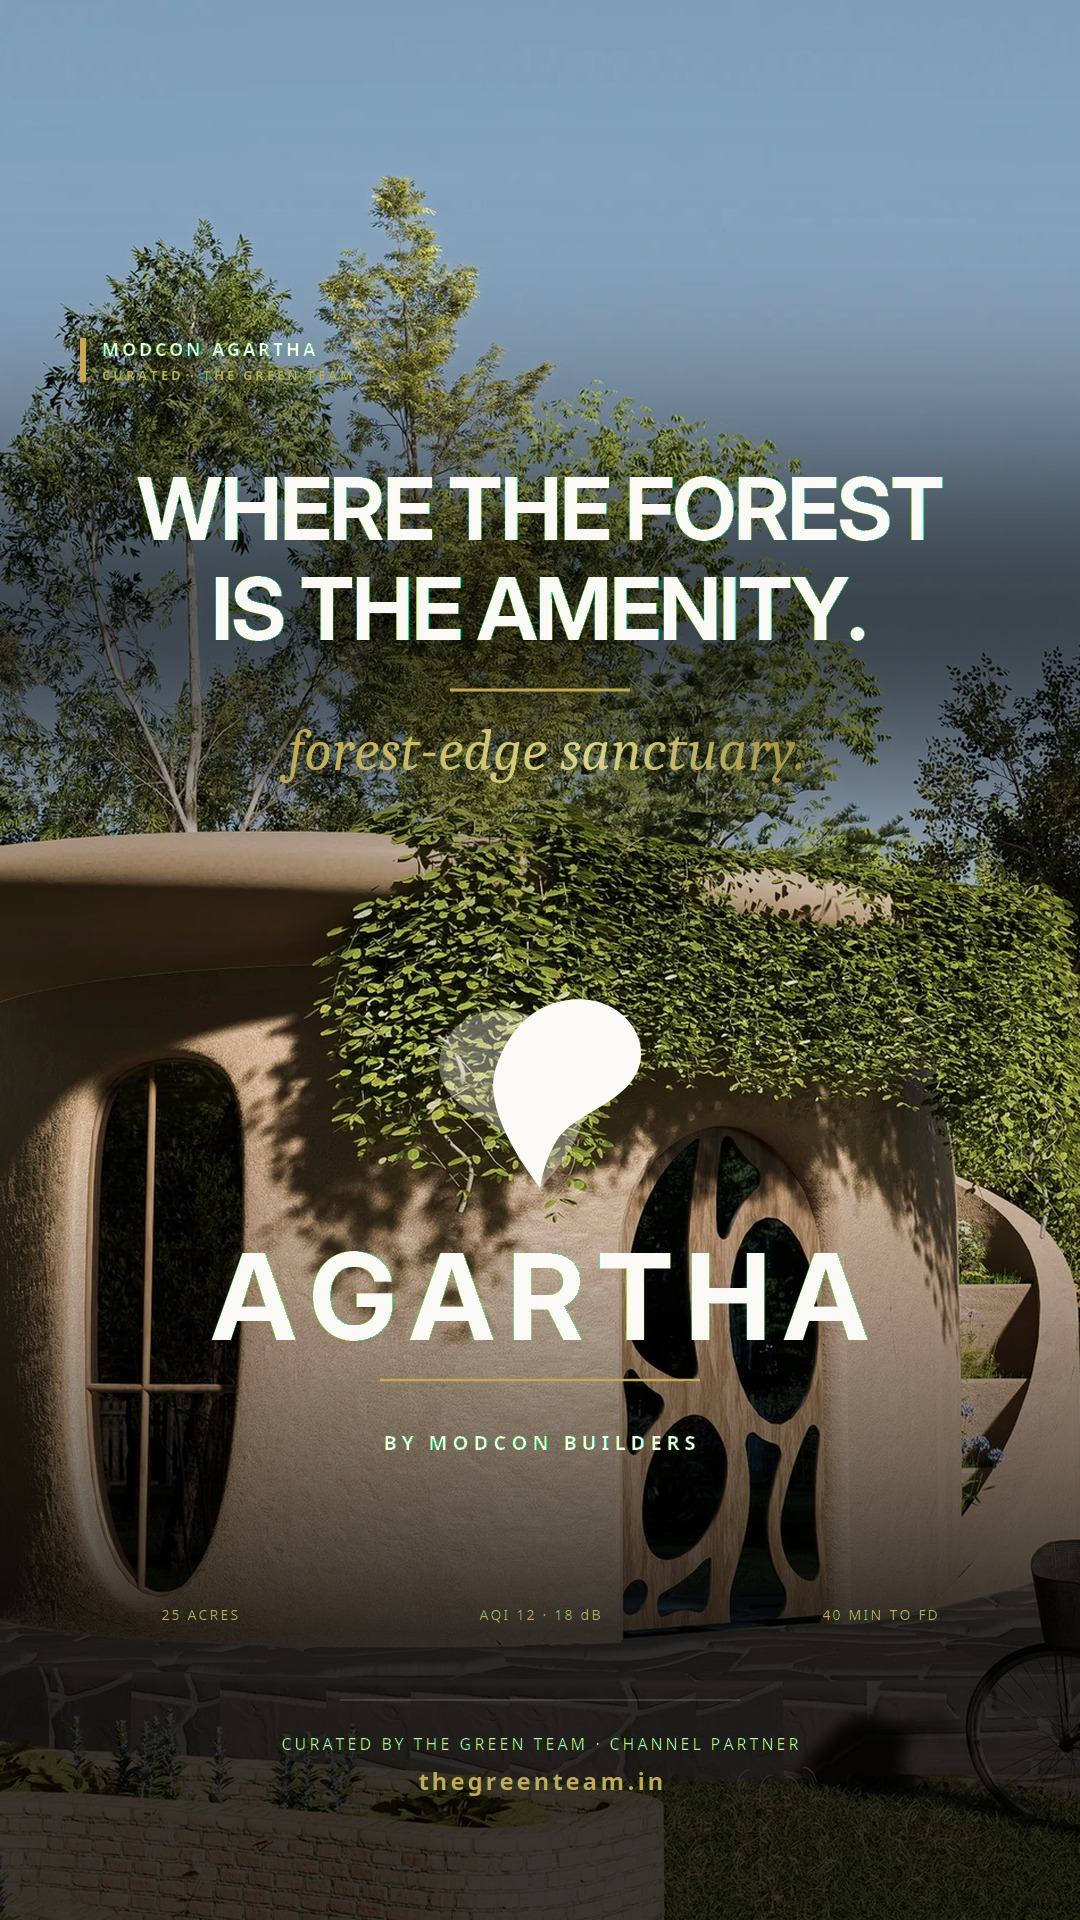
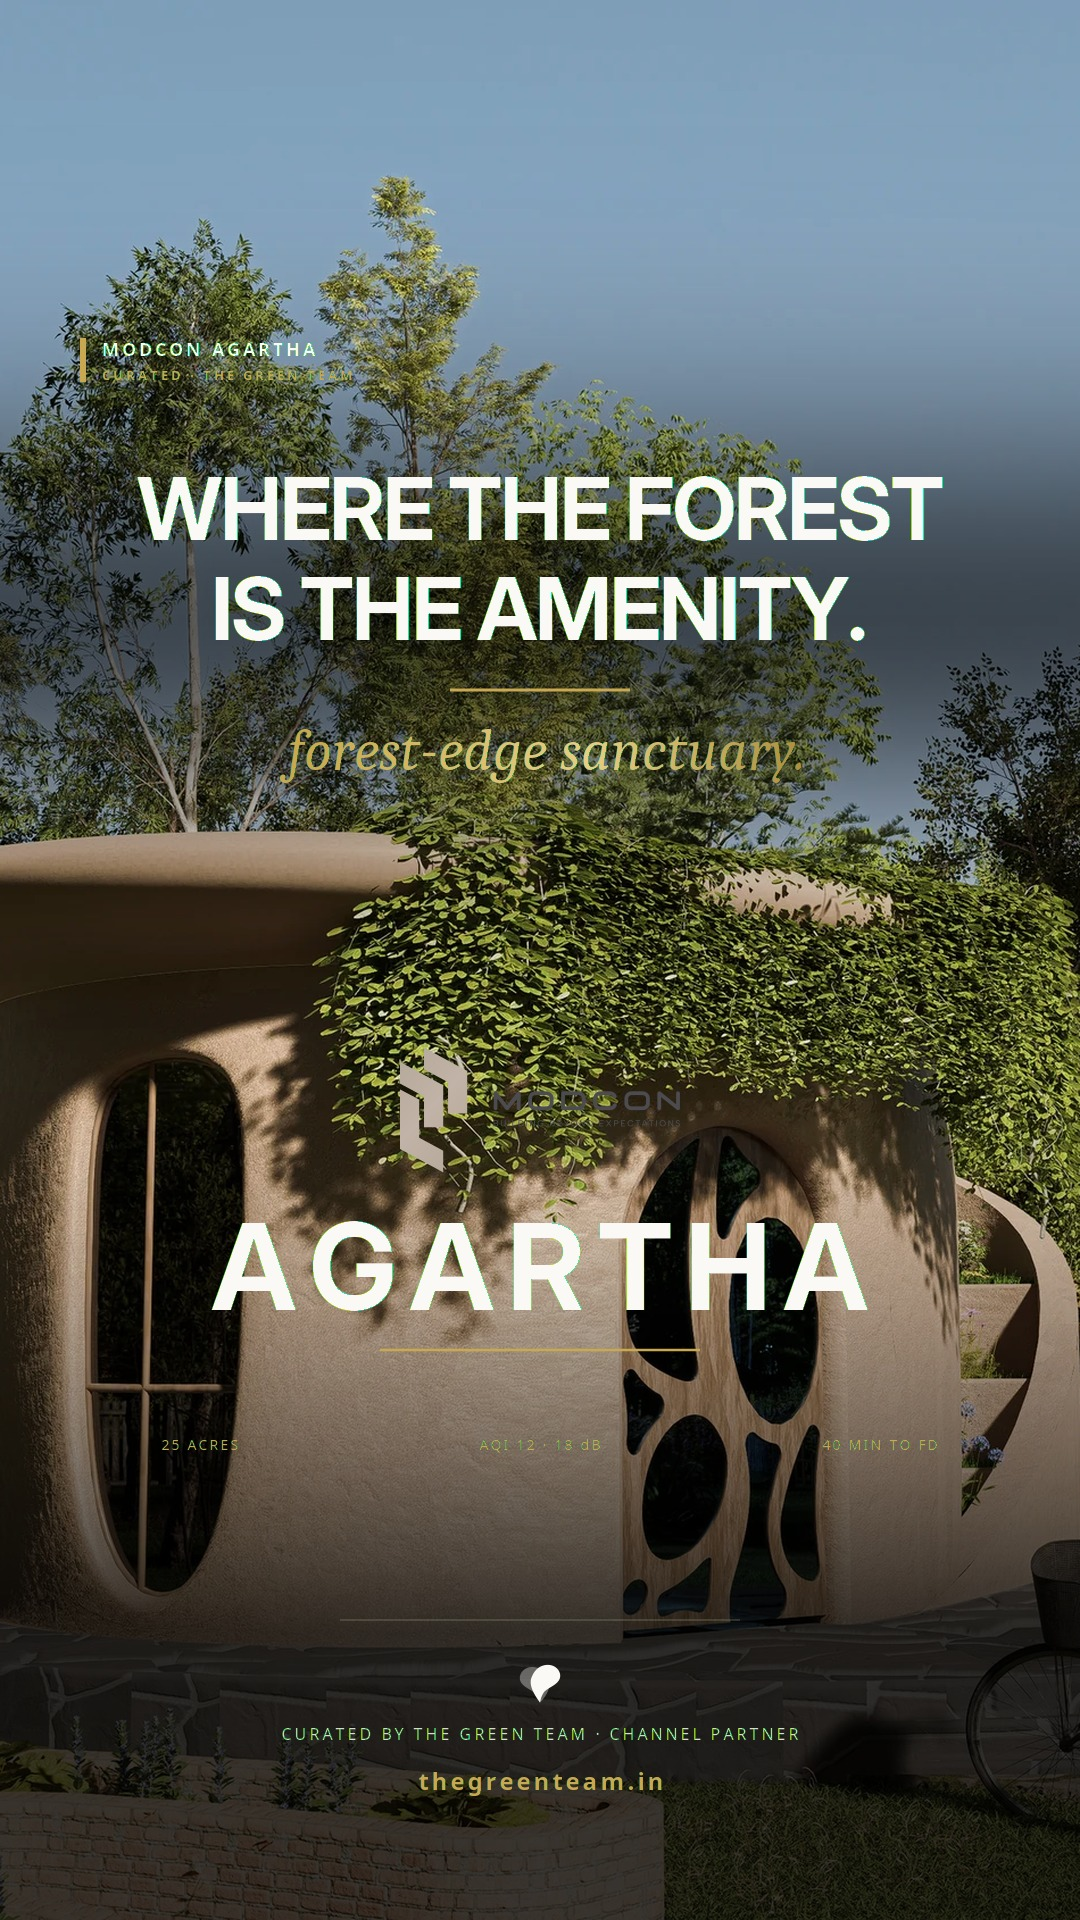
agartha-reel: MODCON wordmark replaces Green Team leaf as hero brand mark
CEO feedback: 'Agartha is by MODCON BUILDERS, The Green Team is just
channel partner -- you putting green team logo for Agartha why?'

Fixed brand hierarchy:
  Brand reveal hero  : MODCON SVG wordmark (the actual developer's mark)
  Property name      : AGARTHA (140pt)
  Tagline            : italic gold 'forest-edge sanctuary.'
  Bottom signature   : small Green Team leaf + 'CURATED BY THE GREEN TEAM
                       . CHANNEL PARTNER' + thegreenteam.in

The Green Team's leaf no longer sits ABOVE the AGARTHA wordmark (which
made it read as Agartha's own logo). It's now sized and positioned as
a channel-partner attribution mark in the signature.

Also: 1.4x slowdown applied at the ffmpeg encode step via
setpts=1.4*PTS + atempo=0.7143. Output duration extends from 22.0s
to 30.8s, giving viewers time to read the typography.

diff --git a/brand-kit/video/build_gt_agartha_reel.py b/brand-kit/video/build_gt_agartha_reel.py
@@ -52,6 +52,39 @@ from build_gt_thumb_v41 import (
     REPO,
 )
 
+
+# ─── MODCON LOGO (developer brand mark) ─────────────────────────────────
+# Load the official MODCON SVG once and stash the inner content for inline
+# embedding in our composition.
+def _load_modcon_inner() -> str:
+    """Return everything inside the <svg ...> wrapper of modcon-logo.svg."""
+    raw = (REPO / "public" / "logos" / "modcon-logo.svg").read_text()
+    # Strip the <?xml ?> and the outer <svg ...> ... </svg> tags so we
+    # can drop the inner content into our composite SVG.
+    start = raw.index(">", raw.index("<svg")) + 1
+    end = raw.rindex("</svg>")
+    return raw[start:end]
+
+
+MODCON_VIEWBOX_W = 646.65
+MODCON_VIEWBOX_H = 288.10
+MODCON_INNER = _load_modcon_inner()
+
+
+def modcon_logo_svg(cx: int, cy: int, target_w: int, opacity: float = 1.0) -> str:
+    """Render the MODCON wordmark logo centered at (cx, cy), scaled so its
+    width equals target_w. Uses the official SVG content."""
+    if opacity <= 0.001:
+        return ""
+    scale = target_w / MODCON_VIEWBOX_W
+    target_h = MODCON_VIEWBOX_H * scale
+    tx = cx - target_w / 2
+    ty = cy - target_h / 2
+    return (
+        f'<g transform="translate({tx:.2f},{ty:.2f}) scale({scale:.5f})" '
+        f'opacity="{opacity:.3f}">{MODCON_INNER}</g>'
+    )
+
 # V42b technique — borrow the diagonal wipe + light leak helpers
 import build_gt_thumb_v42b as v42b
 
@@ -275,8 +308,13 @@ def phase4_specs_strobe(t, dust, photos):
 
 
 def phase5_brand_reveal_agartha(t, dust, photos):
-    """Phase 5 — leaf draws in, then 'AGARTHA' big + 'by THE GREEN TEAM'
-    smaller + 'forest-edge sanctuary.' italic gold."""
+    """Phase 5 — MODCON wordmark fades in (developer's official brand mark),
+    then 'AGARTHA' typewriter reveal, then italic gold 'forest-edge sanctuary.'.
+
+    No Green Team leaf here. AGARTHA is built by MODCON, so the developer's
+    actual wordmark sits above the property name. The Green Team leaf
+    appears later in the close as a small channel-partner attribution mark.
+    """
     u = norm(t, P4_END, P5_END)
     fade_out = ease_in_out(clamp(u / 0.30))
     im_photo = photos["aerial"].ken_burns(
@@ -289,53 +327,41 @@ def phase5_brand_reveal_agartha(t, dust, photos):
     if fade_out > 0.98:
         im = ink
 
-    draw_p = clamp((u - 0.00) / 0.55)
-    fill_p = clamp((u - 0.40) / 0.45)
-    leaf_size = 320
-    leaf_cy = 750
+    # MODCON logo fades in across u 0.05 → 0.45
+    modcon_opacity = ease_out_cubic(clamp((u - 0.05) / 0.40))
 
-    # AGARTHA wordmark (big property name) types in after leaf fill starts
-    pname_progress = ease_out_cubic(clamp((u - 0.50) / 0.25))
+    # AGARTHA wordmark types in after MODCON settles
+    pname_progress = ease_out_cubic(clamp((u - 0.45) / 0.25))
     pname_visible_n = int(round(pname_progress * len(PROPERTY_NAME)))
     pname_shown = PROPERTY_NAME[:pname_visible_n]
 
-    # "by THE GREEN TEAM" subline reveals after property name
-    sub_progress = ease_out_cubic(clamp((u - 0.68) / 0.18))
+    rule_w = clamp((u - 0.62) / 0.18) * 320
 
     # "forest-edge sanctuary." italic gold tagline last
-    tag_progress = ease_out_cubic(clamp((u - 0.80) / 0.18))
-
-    rule_w = clamp((u - 0.62) / 0.18) * 320
+    tag_progress = ease_out_cubic(clamp((u - 0.75) / 0.20))
 
     parts = [
         v41.DEFS,
         f'<rect width="{W}" height="{H}" fill="url(#vig)"/>',
-        leaf_logo_svg(CX, leaf_cy, leaf_size, draw_p, fill_p),
-        # AGARTHA — big editorial display
-        f'<text x="{CX}" y="1090" font-family="{FONT_DISPLAY}" font-size="140" '
+        # MODCON developer wordmark (renders the official SVG content)
+        modcon_logo_svg(CX, 800, 340, opacity=modcon_opacity),
+        # AGARTHA — big editorial display under MODCON
+        f'<text x="{CX}" y="1100" font-family="{FONT_DISPLAY}" font-size="140" '
         f'fill="{PAPER}" font-weight="800" letter-spacing="14" '
         f'text-anchor="middle">{pname_shown}</text>',
         # Gold rule under AGARTHA
-        f'<line x1="{CX - rule_w/2:.0f}" y1="1130" '
-        f'x2="{CX + rule_w/2:.0f}" y2="1130" stroke="{GT_GOLD}" '
+        f'<line x1="{CX - rule_w/2:.0f}" y1="1140" '
+        f'x2="{CX + rule_w/2:.0f}" y2="1140" stroke="{GT_GOLD}" '
         f'stroke-width="2.5"/>',
     ]
-    if sub_progress > 0.001:
-        parts.append(
-            f'<g transform="translate({CX},1200)" opacity="{sub_progress:.3f}">'
-            f'<text x="0" y="0" font-family="{FONT_MONO}" font-size="22" '
-            f'fill="{PAPER}" letter-spacing="6" font-weight="600" '
-            f'text-anchor="middle">{DEVELOPER_LINE}</text>'
-            f'</g>'
-        )
     if tag_progress > 0.001:
         clip_w = tag_progress * 700
         parts.append(
             f'<defs><clipPath id="agtag">'
-            f'<rect x="{CX-350:.0f}" y="1260" width="{clip_w:.0f}" height="100"/>'
+            f'<rect x="{CX-350:.0f}" y="1220" width="{clip_w:.0f}" height="100"/>'
             f'</clipPath></defs>'
             f'<g clip-path="url(#agtag)">'
-            f'<text x="{CX}" y="1340" font-family="{FONT_SERIF}" '
+            f'<text x="{CX}" y="1300" font-family="{FONT_SERIF}" '
             f'font-size="68" font-style="italic" '
             f'fill="url(#goldHL)" font-weight="400" '
             f'text-anchor="middle">{TAGLINE_MAIN}</text>'
@@ -378,21 +404,20 @@ def phase6_cta_close(t, dust, photos):
 
     overlay = (
         final_defs
-        + leaf_logo_svg(CX, 750, 320, 1.0, 1.0)
-        + f'<text x="{CX}" y="1090" font-family="{FONT_DISPLAY}" font-size="140" '
+        # MODCON developer wordmark (hero brand mark — held from P5)
+        + modcon_logo_svg(CX, 800, 340, opacity=1.0)
+        # AGARTHA — big editorial display
+        + f'<text x="{CX}" y="1100" font-family="{FONT_DISPLAY}" font-size="140" '
         f'fill="{PAPER}" font-weight="800" letter-spacing="14" '
         f'text-anchor="middle">{PROPERTY_NAME}</text>'
-        + f'<line x1="{CX - 160}" y1="1130" x2="{CX + 160}" y2="1130" '
+        + f'<line x1="{CX - 160}" y1="1140" x2="{CX + 160}" y2="1140" '
         f'stroke="{GT_GOLD}" stroke-width="2.5"/>'
-        + f'<text x="{CX}" y="1200" font-family="{FONT_MONO}" font-size="22" '
-        f'fill="{PAPER}" letter-spacing="6" font-weight="600" '
-        f'text-anchor="middle">{DEVELOPER_LINE}</text>'
-        + f'<text x="{CX}" y="1340" font-family="{FONT_SERIF}" '
+        + f'<text x="{CX}" y="1300" font-family="{FONT_SERIF}" '
         f'font-size="68" font-style="italic" '
         f'fill="url(#goldHL)" font-weight="400" '
         f'text-anchor="middle">{TAGLINE_MAIN}</text>'
         # CTA block — two lines
-        + f'<g transform="translate({CX},1450)" opacity="{cta_progress:.3f}">'
+        + f'<g transform="translate({CX},1430)" opacity="{cta_progress:.3f}">'
         + f'<line x1="-200" y1="-50" x2="200" y2="-50" '
         f'stroke="{GT_SAGE}" stroke-width="1" opacity="0.45"/>'
         + f'<text x="0" y="0" font-family="{FONT_MONO}" font-size="22" '
@@ -402,12 +427,13 @@ def phase6_cta_close(t, dust, photos):
         f'fill="{PAPER}" letter-spacing="4" font-weight="600" '
         f'text-anchor="middle">{CTA_LINE_2}</text>'
         + '</g>'
-        # Channel partner attribution + URL
-        + f'<g transform="translate({CX},1610)" opacity="{sig_progress:.3f}">'
-        + f'<text x="0" y="0" font-family="{FONT_MONO}" font-size="15" '
+        # Channel partner attribution: small Green Team leaf + line + URL
+        + f'<g transform="translate({CX},1590)" opacity="{sig_progress:.3f}">'
+        + leaf_logo_svg(0, 0, 38, 1.0, 1.0)  # small Green Team leaf — channel partner mark
+        + f'<text x="0" y="60" font-family="{FONT_MONO}" font-size="15" '
         f'fill="{PAPER}" opacity="0.85" letter-spacing="3" '
         f'text-anchor="middle">{CHANNEL_PARTNER_LINE}</text>'
-        + f'<text x="0" y="32" font-family="{FONT_MONO}" font-size="22" '
+        + f'<text x="0" y="92" font-family="{FONT_MONO}" font-size="22" '
         f'fill="{GT_GOLD}" font-weight="700" letter-spacing="3" '
         f'text-anchor="middle">thegreenteam.in</text>'
         + '</g>'
@@ -507,19 +533,16 @@ def build_poster():
         f'<text x="{CX}" y="770" font-family="{FONT_SERIF}" font-size="58" '
         f'font-style="italic" fill="url(#gh)" font-weight="500" '
         f'text-anchor="middle">{TAGLINE_MAIN}</text>'
-        # Leaf (small)
-        + leaf_logo_svg(CX, 1100, 220, 1.0, 1.0)
+        # MODCON developer wordmark (the actual builder's mark)
+        + modcon_logo_svg(CX, 1110, 280, opacity=1.0)
         # AGARTHA wordmark big
-        + f'<text x="{CX}" y="1340" font-family="{FONT_DISPLAY}" font-size="120" '
+        + f'<text x="{CX}" y="1310" font-family="{FONT_DISPLAY}" font-size="120" '
         f'fill="{PAPER}" font-weight="800" letter-spacing="12" '
         f'text-anchor="middle">{PROPERTY_NAME}</text>'
-        + f'<line x1="{CX-160}" y1="1380" x2="{CX+160}" y2="1380" '
+        + f'<line x1="{CX-160}" y1="1350" x2="{CX+160}" y2="1350" '
         f'stroke="{GT_GOLD}" stroke-width="2.5"/>'
-        + f'<text x="{CX}" y="1450" font-family="{FONT_MONO}" font-size="20" '
-        f'fill="{PAPER}" letter-spacing="5" font-weight="600" '
-        f'text-anchor="middle">{DEVELOPER_LINE}</text>'
-        # Specs row at the bottom (Agartha facts)
-        + f'<g transform="translate(0,1620)">'
+        # Specs row (Agartha facts)
+        + f'<g transform="translate(0,1450)">'
         + f'<text x="200" y="0" font-family="{FONT_MONO}" font-size="14" '
         f'fill="{GT_GOLD}" letter-spacing="2" text-anchor="middle">25 ACRES</text>'
         + f'<text x="540" y="0" font-family="{FONT_MONO}" font-size="14" '
@@ -527,10 +550,11 @@ def build_poster():
         + f'<text x="880" y="0" font-family="{FONT_MONO}" font-size="14" '
         f'fill="{GT_GOLD}" letter-spacing="2" text-anchor="middle">40 MIN TO FD</text>'
         + '</g>'
-        # Signature: channel partner attribution + URL
-        + f'<line x1="{CX-200}" y1="1700" x2="{CX+200}" y2="1700" '
+        # Signature: small Green Team leaf + channel partner attribution + URL
+        + f'<line x1="{CX-200}" y1="1620" x2="{CX+200}" y2="1620" '
         f'stroke="{GT_SAGE}" stroke-width="1" opacity="0.45"/>'
-        + f'<text x="{CX}" y="1750" font-family="{FONT_MONO}" font-size="16" '
+        + leaf_logo_svg(CX, 1685, 44, 1.0, 1.0)
+        + f'<text x="{CX}" y="1740" font-family="{FONT_MONO}" font-size="16" '
         f'fill="{PAPER}" opacity="0.85" letter-spacing="3" '
         f'text-anchor="middle">{CHANNEL_PARTNER_LINE}</text>'
         + f'<text x="{CX}" y="1790" font-family="{FONT_MONO}" font-size="24" '
@@ -585,7 +609,14 @@ def main():
         target = FRAMES_DIR / f"f{i:05d}.jpg"
         Image.open(POSTER_JPG).save(target, "JPEG", quality=92)
 
-    # Production encode (CRF 18) with cover art
+    # Slow the entire output down by 40% (video + audio stay in sync).
+    # SLOW_FACTOR = 1.4 means playback is 1/1.4 = 0.7143x speed.
+    # 22.0s source frames + 22.0s source audio → 30.8s output.
+    SLOW_FACTOR = 1.4
+    OUT_DUR = TOTAL_S * SLOW_FACTOR  # 30.8s
+    ATEMPO = 1.0 / SLOW_FACTOR        # ~0.7143
+
+    # Production encode (CRF 18) with cover art + 1.4x slowdown
     for label, crf, audio_kb, out_path in (
         ("prod",   18, 192, FINAL_MP4),
         ("mobile", 26,  96, MOBILE_MP4),
@@ -596,18 +627,20 @@ def main():
             "-i", str(AUDIO_SRC),
             "-i", str(POSTER_JPG),
             "-map", "0:v:0", "-map", "1:a:0", "-map", "2:v:0",
+            "-filter:v:0", f"setpts={SLOW_FACTOR}*PTS",
+            "-filter:a", f"atempo={ATEMPO:.6f},afade=t=out:st={OUT_DUR-1.0:.2f}:d=1.0",
             "-c:v:0", "libx264", "-preset", "slow", "-crf", str(crf),
-            "-pix_fmt", "yuv420p",
+            "-pix_fmt", "yuv420p", "-r", str(FPS),
             "-c:v:1", "copy", "-disposition:v:1", "attached_pic",
             "-c:a", "aac", "-b:a", f"{audio_kb}k",
-            "-af", f"afade=t=out:st={TOTAL_S - 1.0:.2f}:d=1.0",
             "-movflags", "+faststart",
-            "-t", str(TOTAL_S),
+            "-t", str(OUT_DUR),
             str(out_path),
         ]
         subprocess.run(cmd, check=True, capture_output=True)
         print(f"[{label}] {out_path.name}  "
-              f"{out_path.stat().st_size // (1024*1024)} MB")
+              f"{out_path.stat().st_size // (1024*1024)} MB  "
+              f"({OUT_DUR:.1f}s, slowed {SLOW_FACTOR}x)")
 
 
 if __name__ == "__main__":
